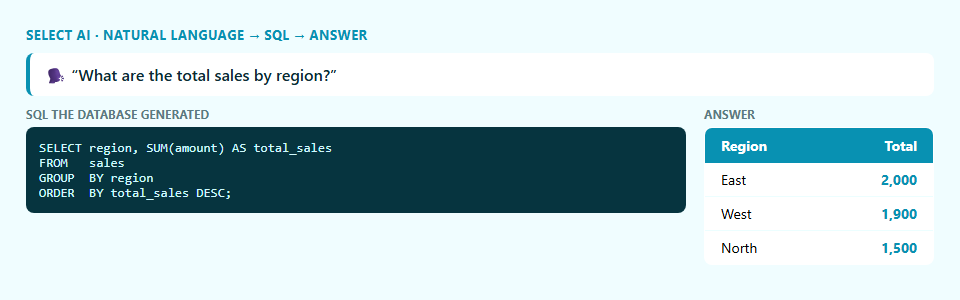
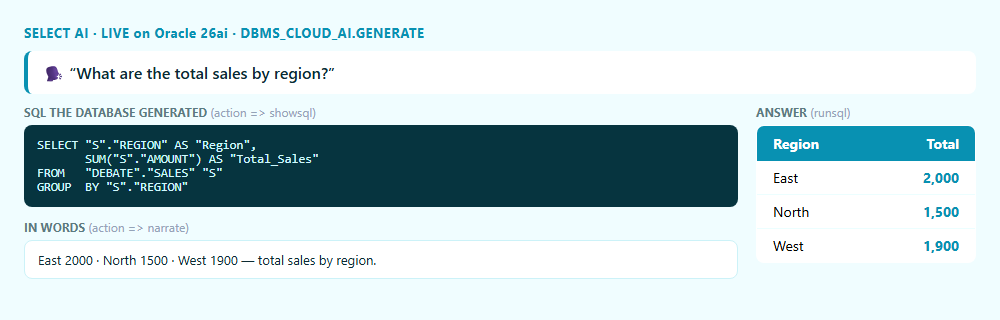
Use real live Select AI output for the result screenshot

diff --git a/blog/blog.html b/blog/blog.html
@@ -60,7 +60,7 @@ FROM dual;</code></pre>
 
   <figure style="margin:22px 0;text-align:center;">
     <img src="result.png" alt="Select AI turns 'What are the total sales by region?' into a GROUP BY query and returns East 2000, West 1900, North 1500" style="max-width:100%;height:auto;border-radius:10px;border:1px solid #e5e7eb;" />
-    <figcaption style="font-size:14px;color:#5b7a82;font-style:italic;margin-top:8px;">Ask in English → the database generates the <code>GROUP BY</code> and returns the answer.</figcaption>
+    <figcaption style="font-size:14px;color:#5b7a82;font-style:italic;margin-top:8px;">A live <code>DBMS_CLOUD_AI.GENERATE</code> run on Oracle 26ai — ask in English, the database writes the <code>GROUP BY</code> and returns the answer.</figcaption>
   </figure>
 
   <h2 style="color:#0891b2;margin-top:32px;">Run it</h2>

diff --git a/blog/BLOG.md b/blog/BLOG.md
@@ -59,7 +59,7 @@ FROM dual;
 ```
 
 ![Select AI turns the question into a GROUP BY query and returns East 2000, West 1900, North 1500](result.png)
-*Ask in English → the database generates the `GROUP BY` and returns the answer.*
+*A live `DBMS_CLOUD_AI.GENERATE` run on Oracle 26ai — ask in English, the database writes the `GROUP BY` and returns the answer.*
 
 ## Run it
 